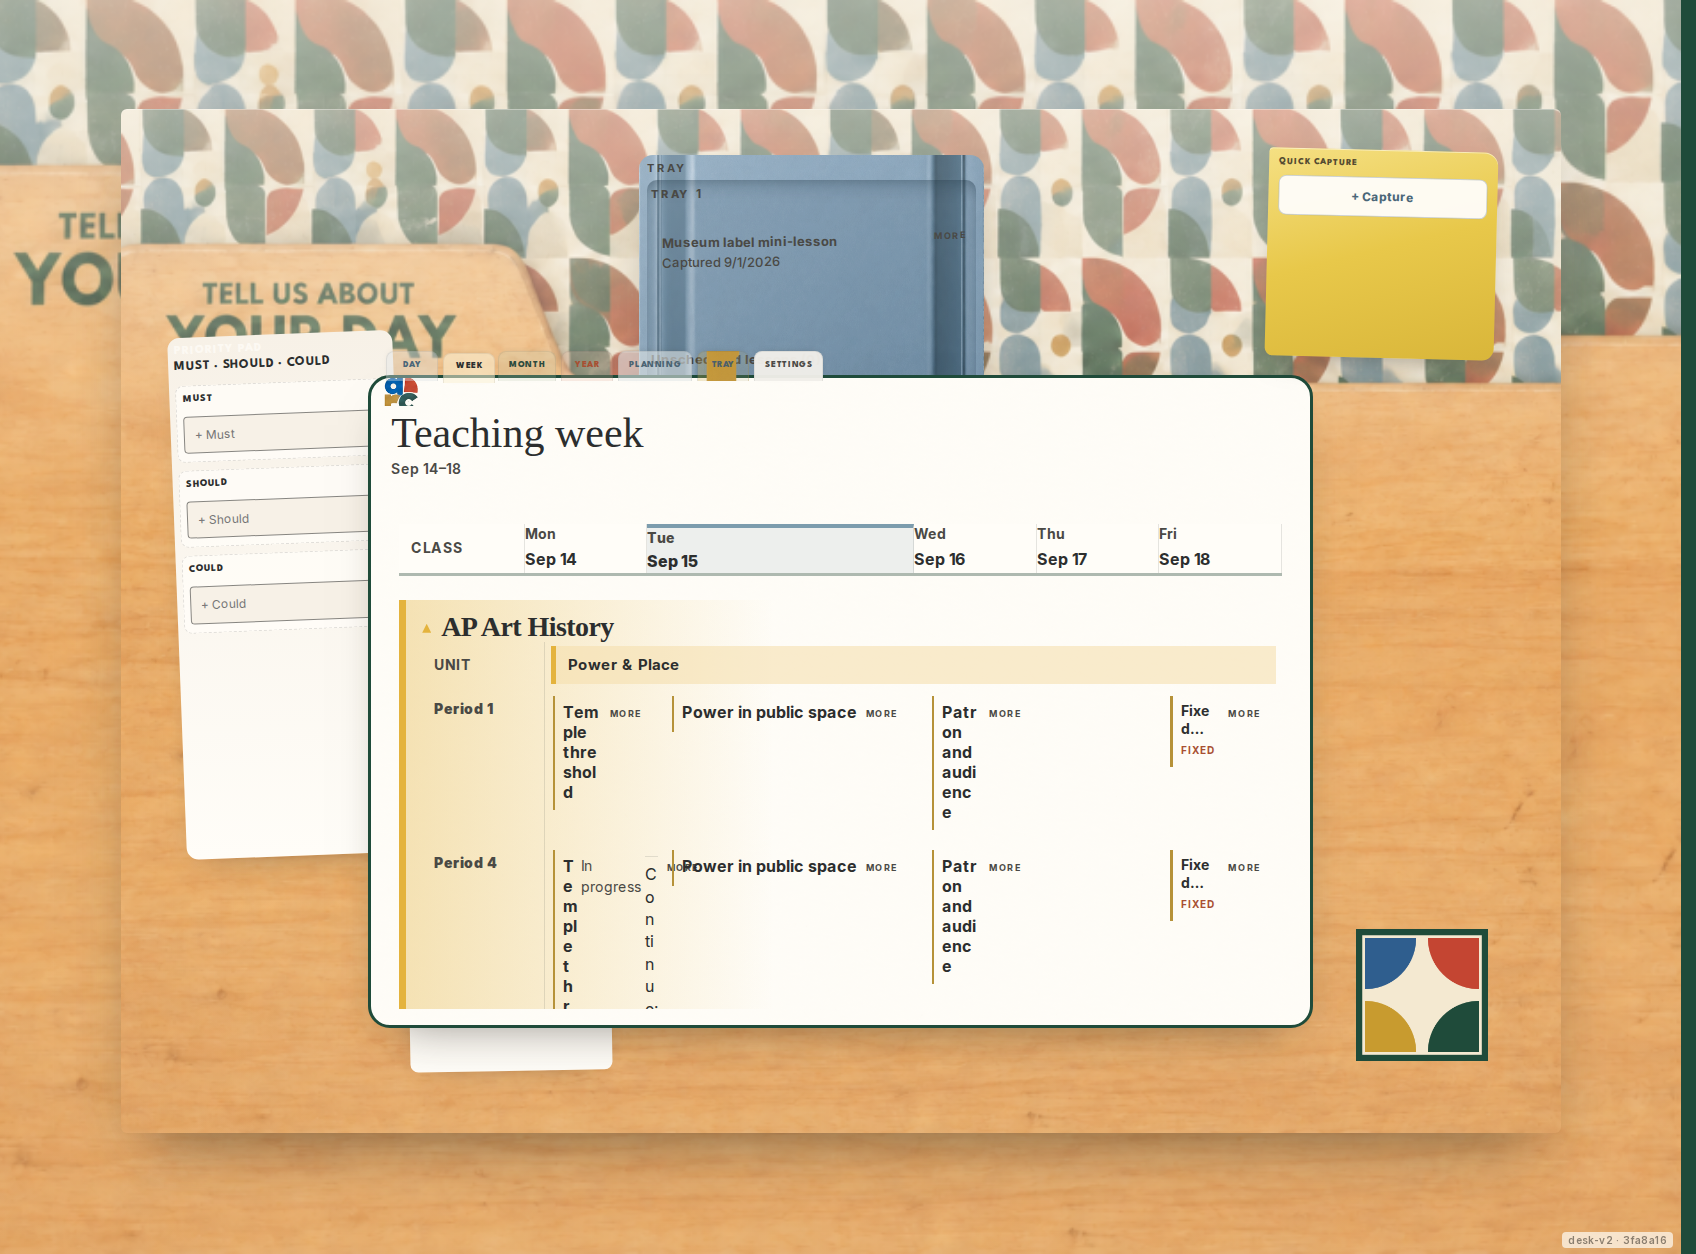
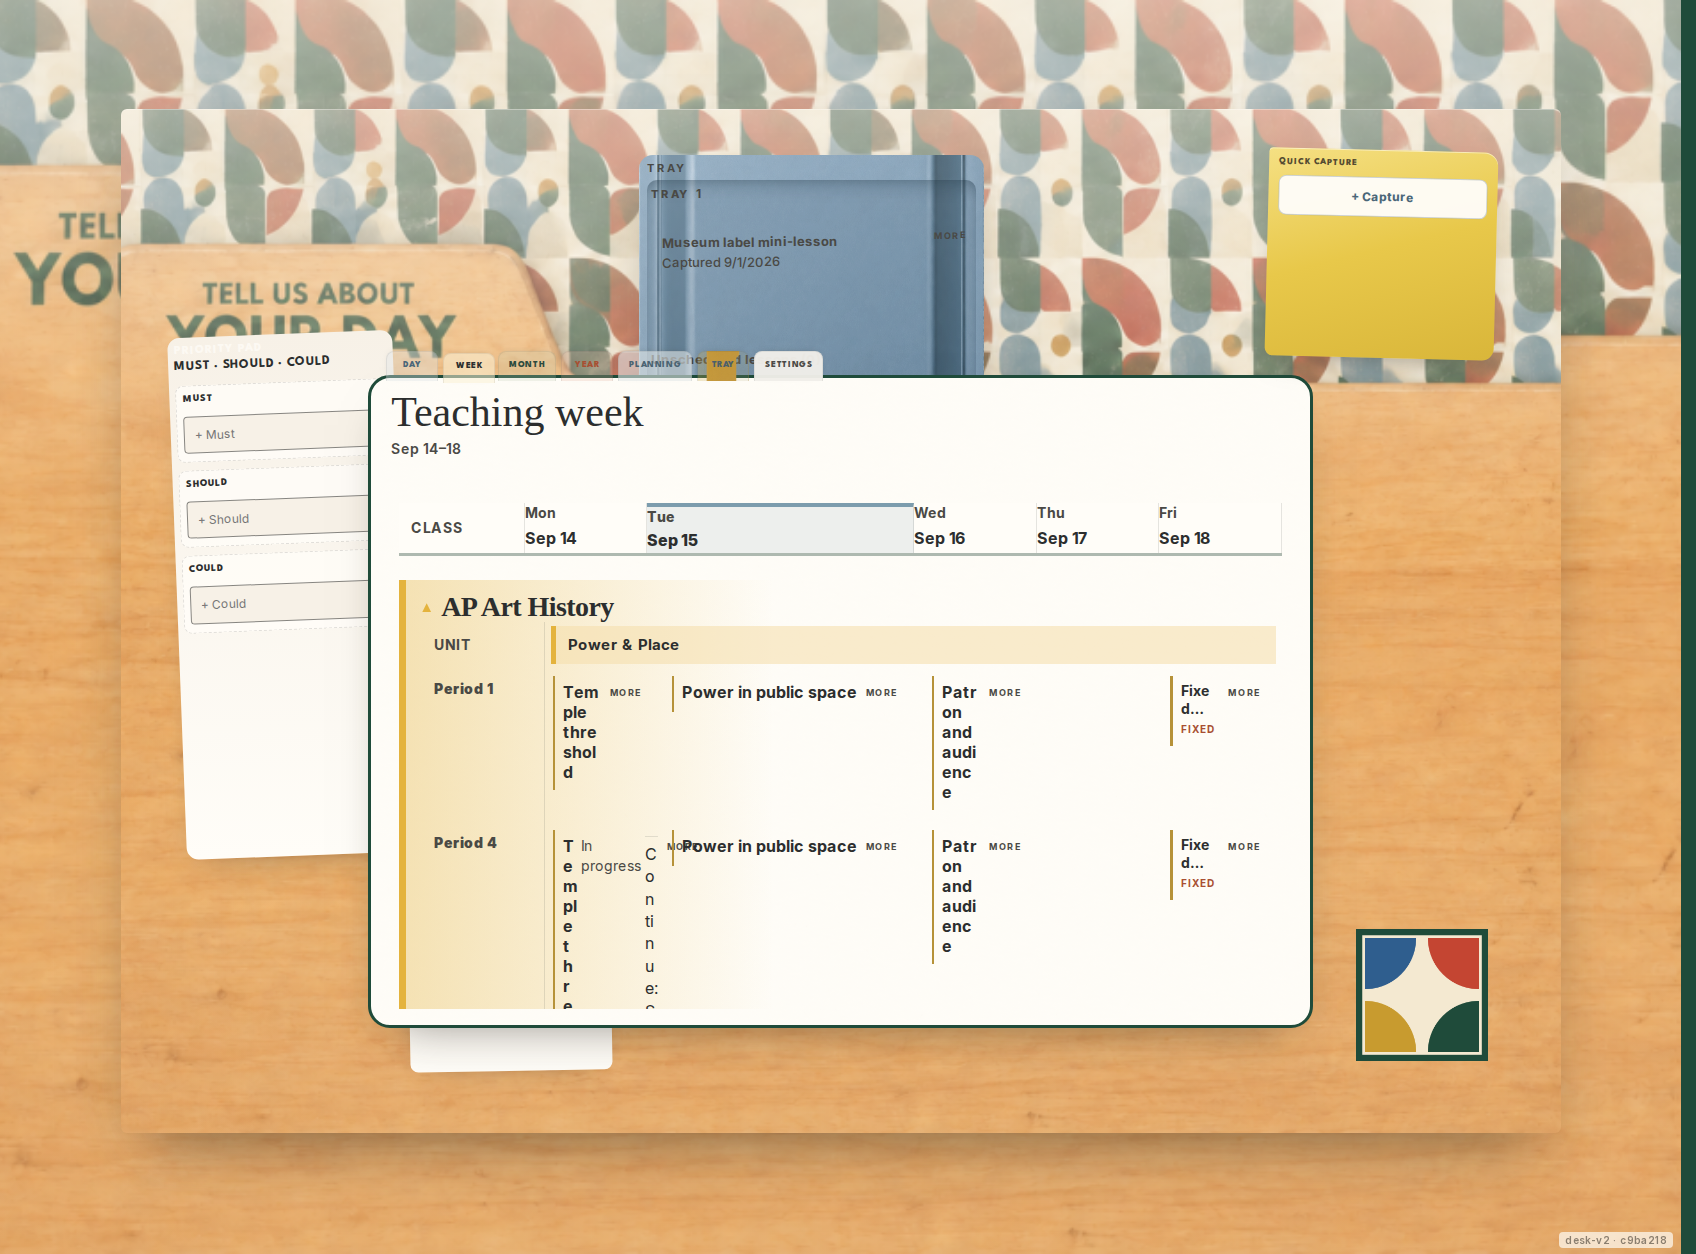
fix(desk): dedupe tray, shell chrome, and index rail on Pages desk
Remove planner shell wordmark from desk spread so PlanStateHeader is the
sole editorial title. Hide molded tray when TRAY drawer is open and tag
b01-index-rail for desk CSS. Playwright asserts single tab row, capture,
and tray surface at 1696×1254.

diff --git a/src/components/B01Furniture.tsx b/src/components/B01Furniture.tsx
@@ -266,6 +266,8 @@ export function B01Furniture({
   const workspacePanelLabel = deskEnabled ? 'Tray' : 'Workspace'
   const layoutGridActive =
     deskEnabled && Boolean(deskLayout) && (deskEditMode || !deskLayoutUsesDefault(deskLayout))
+  /** Physical tray on wood; full TRAY drawer reuses the same panel — never both. */
+  const showDeskTrayDock = Boolean(deskTrayDock) && !workspaceIsOpen
 
   function renderIndexTabs(className: string) {
     if (!indexNav) return null
@@ -359,7 +361,7 @@ export function B01Furniture({
               {layoutGridActive ? (
                 <>
                   {wrapDeskObject('planner', 'Planner', plannerBlock)}
-                  {wrapDeskObject('tray', 'Tray', deskTrayDock ? (
+                  {wrapDeskObject('tray', 'Tray', showDeskTrayDock ? (
                     <aside className="arc-desk-tray-dock" aria-label="Tray" data-testid="arc-desk-tray-dock">
                       <div className="arc-desk-tray-rim">
                         <p className="b01-furniture-kicker">Tray</p>
@@ -382,7 +384,7 @@ export function B01Furniture({
               ) : (
                 <>
                   {plannerBlock}
-                  {deskTrayDock ? (
+                  {showDeskTrayDock ? (
                     <aside className="arc-desk-tray-dock" aria-label="Tray" data-testid="arc-desk-tray-dock">
                       <div className="arc-desk-tray-rim">
                         <p className="b01-furniture-kicker">Tray</p>
@@ -411,7 +413,7 @@ export function B01Furniture({
         plannerBlock
       )}
 
-      <div className={`b01-side-rail${deskEnabled ? ' b01-side-rail--desk-overlays' : ''}`}>
+      <div className={`b01-side-rail b01-index-rail${deskEnabled ? ' b01-side-rail--desk-overlays' : ''}`}>
         {!deskEnabled ? renderIndexTabs('arc-index-tabs') : null}
 
         <div className="b01-side-panels">

diff --git a/src/components/AppFrame.tsx b/src/components/AppFrame.tsx
@@ -681,17 +681,16 @@ export function AppFrame() {
             spreadChrome={
               deskEnabled ? (
                 <>
-                  <PlannerShellBar
-                    homeLabel="Teaching Day home"
-                    onHome={returnHome}
-                    capture={null}
-                    trailing={arcTable.live && arcTable.surface === 'plan' ? (
-                      <button type="button" className="arc-live-return" onClick={arcTable.showTeacher}>
-                        <strong>{arcTable.live.session.sectionName}</strong>
-                        <span>Return to ArcTable</span>
-                      </button>
-                    ) : null}
-                  />
+                  {arcTable.live && arcTable.surface === 'plan' ? (
+                    <div className="planner-shell-bar planner-shell-bar--desk-live" data-testid="planner-shell-bar">
+                      <div className="planner-shell-bar-controls">
+                        <button type="button" className="arc-live-return" onClick={arcTable.showTeacher}>
+                          <strong>{arcTable.live.session.sectionName}</strong>
+                          <span>Return to ArcTable</span>
+                        </button>
+                      </div>
+                    </div>
+                  ) : null}
                   {workspace.storageNotice ? (
                     <p className="storage-notice" role="status">{workspace.storageNotice}</p>
                   ) : null}

diff --git a/src/styles/arc-desk.css b/src/styles/arc-desk.css
@@ -281,8 +281,17 @@ html:has(.arc-shell--desk) body {
   line-height: 1.25;
 }
 
-.b01-furniture-composition--desk .b01-side-rail > .arc-index-tabs {
-  display: none;
+.b01-furniture-composition--desk .b01-side-rail > .arc-index-tabs,
+.b01-furniture-composition--desk .b01-index-rail > .arc-index-tabs {
+  display: none !important;
+}
+
+.b01-furniture-composition--desk .planner-shell-bar:not(.planner-shell-bar--desk-live) {
+  display: none !important;
+}
+
+.b01-furniture-composition--desk[data-workspace-open='true'] .arc-desk-tray-dock {
+  display: none !important;
 }
 
 .arc-desk-tray-dock,

diff --git a/docs/overnight/KELLY-DESK-PREVIEW-REPORT.md b/docs/overnight/KELLY-DESK-PREVIEW-REPORT.md
@@ -57,6 +57,8 @@ The **Figma-ish desk composition is correct** on Pages: physical planner tabs, *
 
 **Fixed:** bottom-right **ArcTable mark** showed a broken image icon because the inline SVG `<image>` used a root `/assets/arctable/...` path without the Pages base (`/arc-greenfield/`). The mark now uses the same `publicAssetUrl` / `import.meta.env.BASE_URL` helper as desk wood/tray CSS.
 
+**Fixed (doubled UI):** desk was stacking **legacy planner shell** (Arc wordmark bar) on top of **PlanStateHeader**, showing **molded tray + TRAY drawer** at once when the tab was open, and keeping redundant index-rail tab CSS hooks. Desk now uses **one** physical tab row, **one** quick capture, **PlanStateHeader-only** titles inside the spread, and **either** the wood tray **or** the TRAY drawer — not both.
+
 **YELLOW (doc only — not blocking):** remaining visual polish vs Figma frame `6:3194`:
 
 - Planner index tabs on the **planner edge** (not a separate top bar strip)
